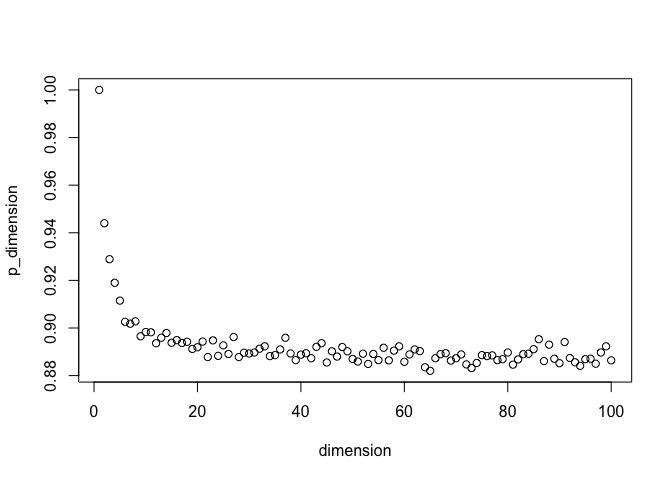
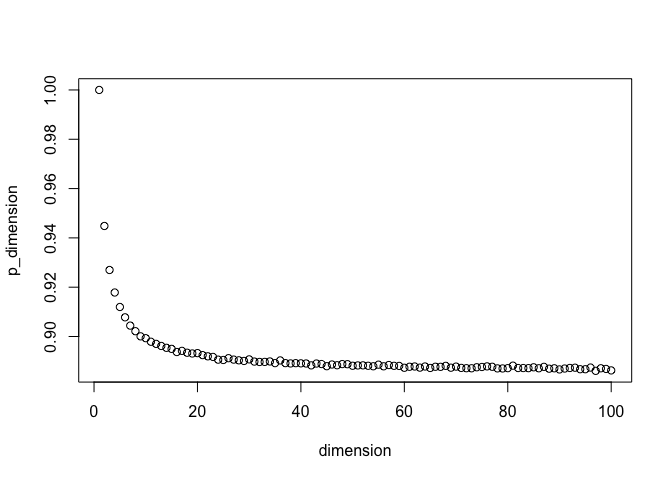
larger run

diff --git a/L1L2/exp_l2.md b/L1L2/exp_l2.md
@@ -23,7 +23,7 @@ set.seed(2023)
 library(parallel)
 
 
-estimate_p_n <- function(dimension, experiment_reps = 10000) {  # noisy empirical estimate
+estimate_p_n <- function(dimension, experiment_reps = 1000000) {  # noisy empirical estimate
   f_l1 <- function(x) { sum(abs(x)) }
   f_l2 <- function(x) { sqrt(sum(x^2)) }  # sqrt() doesn't affect order, so could leave it out.
   # define our experiment
@@ -45,7 +45,7 @@ $p_{100}$ is likely somewhere near the following.
 estimate_p_n(100)
 ```
 
-    ## [1] 0.8875
+    ## [1] 0.886824
 
 $p_{101}$ is likely somewhere near the following.
 
@@ -53,7 +53,7 @@ $p_{101}$ is likely somewhere near the following.
 estimate_p_n(101)
 ```
 
-    ## [1] 0.8797
+    ## [1] 0.886648
 
 A (noisy, empirical graph) of $p_n$ is given as follows.
 
@@ -61,7 +61,10 @@ A (noisy, empirical graph) of $p_n$ is given as follows.
 d <- data.frame(
   dimension = seq(100)
 )
-d$p_dimension <- vapply(d$dimension, estimate_p_n, numeric(1))
+d$p_dimension <- as.numeric(mclapply(
+  d$dimension, 
+  estimate_p_n, 
+  mc.cores = detectCores()))
 ```
 
 ``` r
@@ -70,8 +73,8 @@ plot(d)
 
 ![](exp_l2_files/figure-gfm/unnamed-chunk-5-1.png)<!-- -->
 
-Some work on how to prove this can be found here: [The L2 Ball’s View of
-the L1
+Some work on how to prove the constant is in the interior of $(1/2, 1)$
+can be found here: [The L2 Ball’s View of the L1
 Norm](https://github.com/WinVector/Examples/blob/main/L1L2/L1L2.ipynb).
 
 We can also try for a more precise estimate of the “L2/L1 AUC value.”
@@ -87,6 +90,6 @@ res <- mean(as.numeric(res_list))
 res
 ```
 
-    ## [1] 0.8855456
+    ## [1] 0.8856102
 
 Perhaps this is $\sqrt{\pi} / 2 \approx 0.8862269$?
